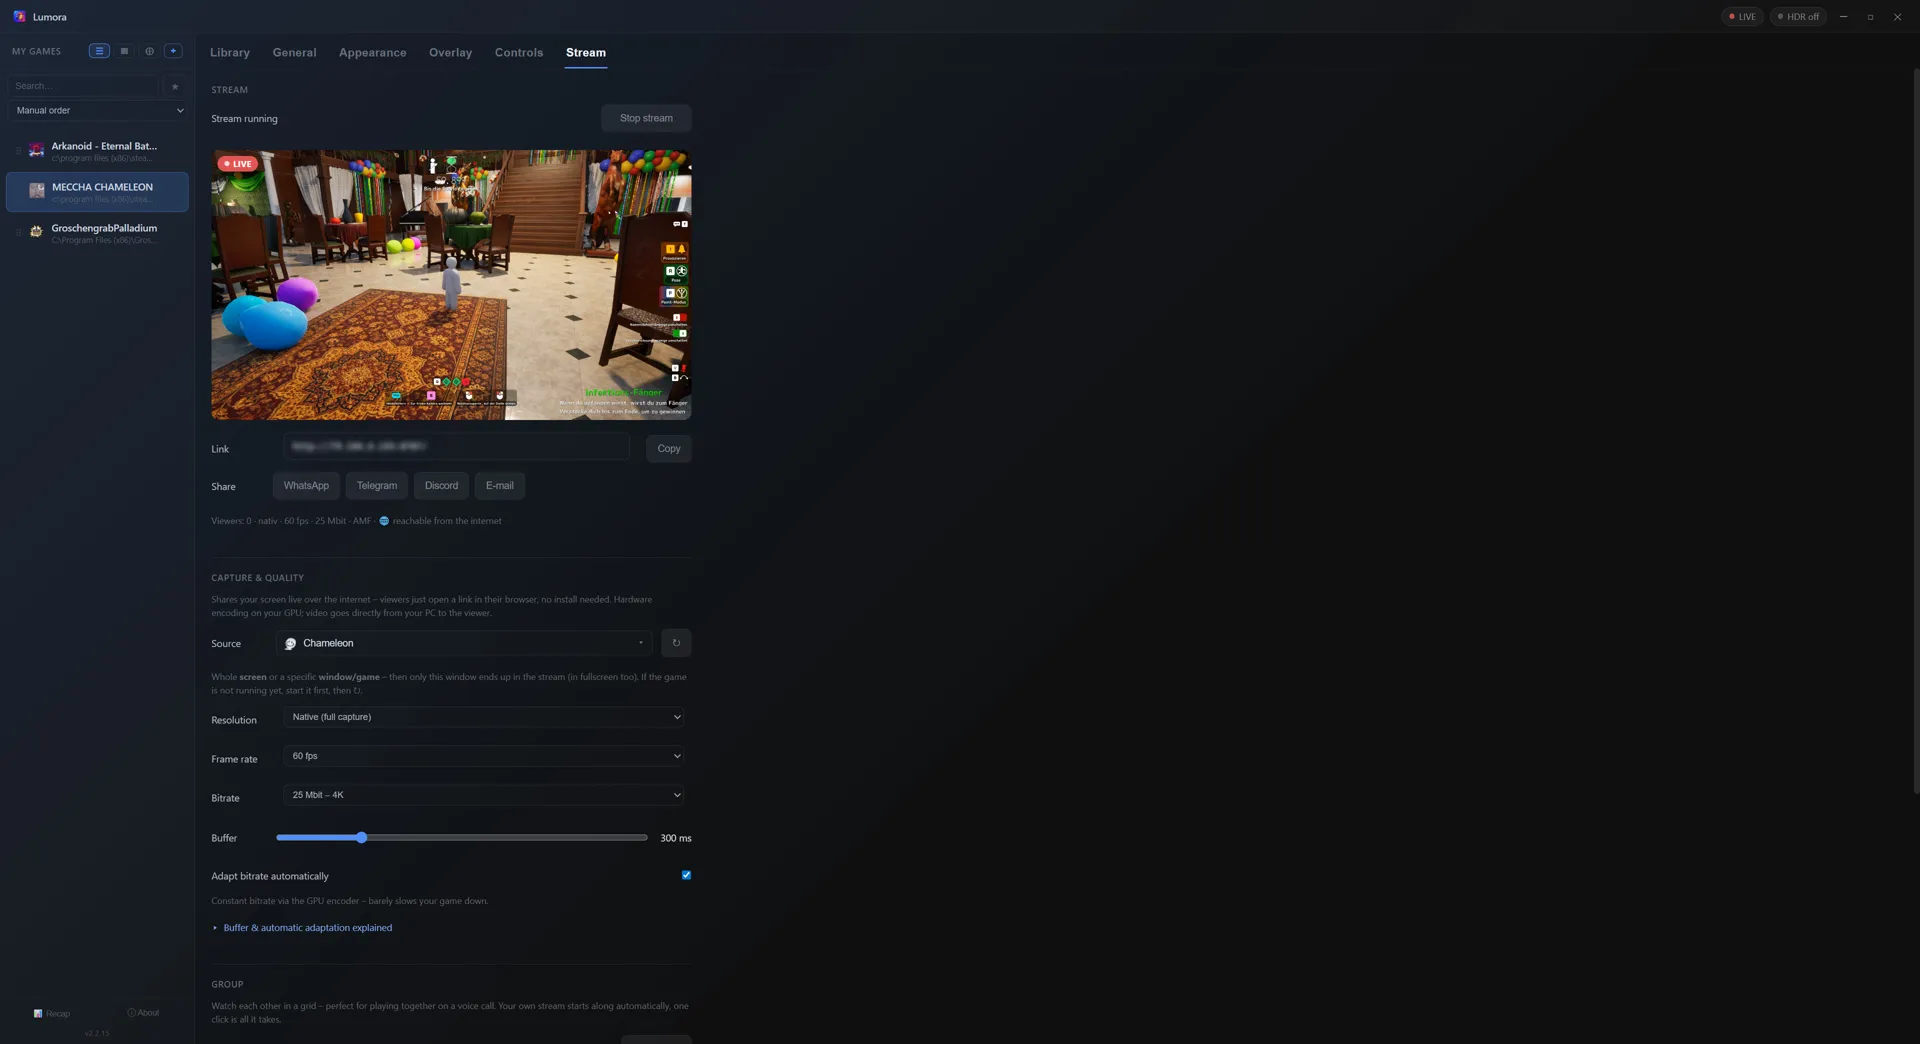
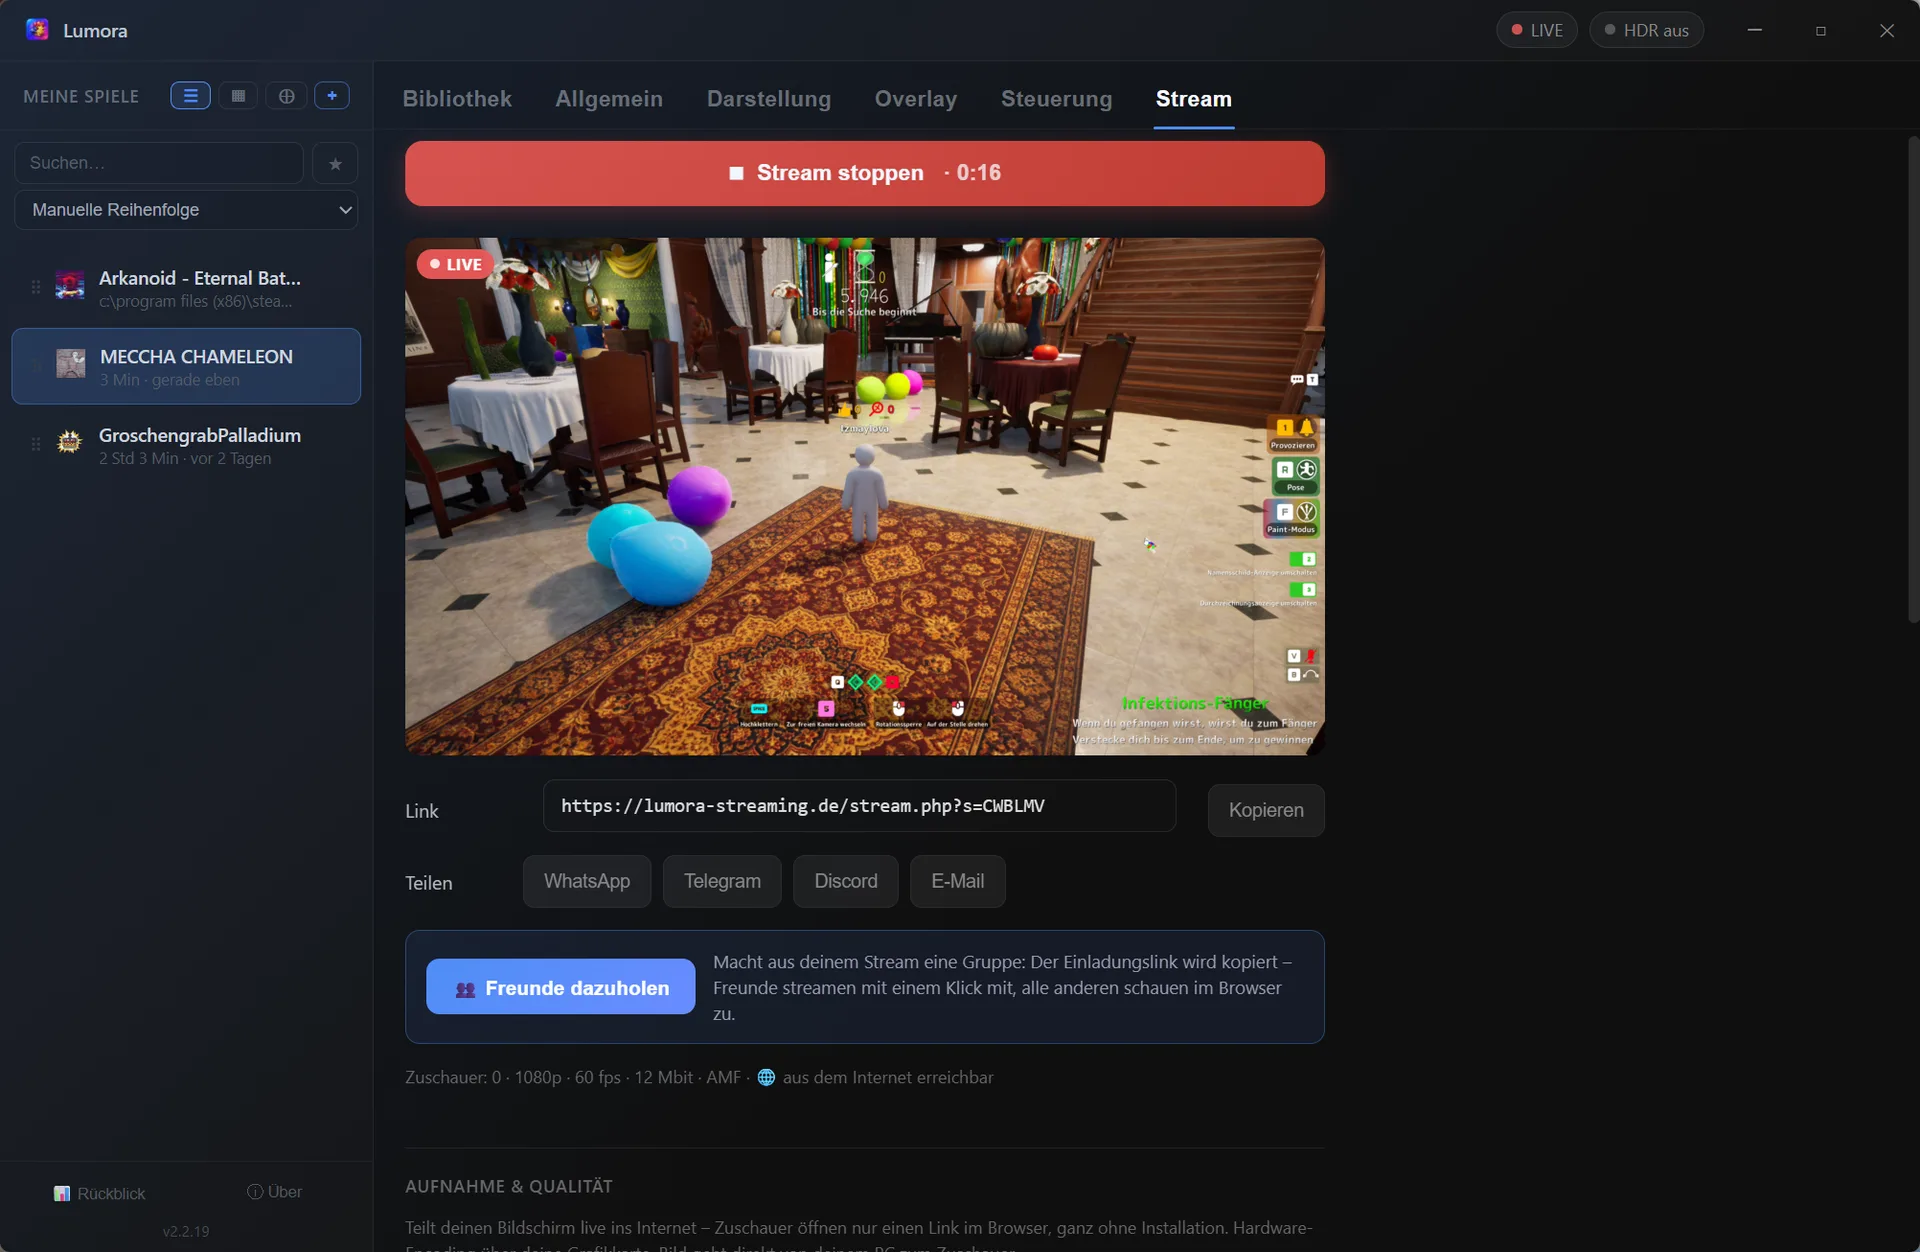
Website: aktueller Stream-Tab-Screenshot + neue Abschluss-Statistik
- stream.webp/stream.jpg durch aktuellen Stream-Tab-Screenshot ersetzt
  (zeigt jetzt stream.php-Link, "Freunde dazuholen", Laufzeit-Timer);
  erscheint automatisch im Streaming-Tab der Startseite + auf
  streaming.html. width/height-Attribute + alt-Texte angepasst (DE+EN).
- Neuer Abschnitt "Nach dem Stream: deine Zahlen" auf streaming.html
  (DE+EN) mit Screenshot der Abschluss-Statistik (stream-stats.webp).
- Bilder mit ffmpeg/libwebp auf 1920 Breite zu WebP konvertiert.

diff --git a/website/en/streaming.html b/website/en/streaming.html
@@ -259,7 +259,7 @@
     <a class="cta" href="../download.php">⬇ Download Lumora for free</a>
     <p class="muted">For Windows 10 &amp; 11 · no registration · open source</p>
 
-    <img class="shot" src="../stream.webp" width="1920" height="1044" decoding="async" alt="Lumora stream tab: live preview, viewer list and bitrate settings while sharing your screen">
+    <img class="shot" src="../stream.webp" width="1920" height="1252" decoding="async" alt="Lumora stream tab: live game preview, share link and “Invite friends” while sharing your screen">
 
     <h2>How it works</h2>
     <ol class="steps">
@@ -279,6 +279,10 @@
         <li><strong>No router fiddling:</strong> automatic port setup (UPnP), IPv6 direct path for DS-Lite/CGNAT connections, optional custom TURN server – all built in.</li>
       </ul>
     </div>
+
+    <h2>After the stream: your numbers</h2>
+    <p>As soon as you end the stream, Lumora shows you a short summary: how long you were live, how many people watched, how much video data was transferred and what quality you streamed at.</p>
+    <img class="shot" src="../stream-stats.webp" width="1920" height="1254" loading="lazy" decoding="async" alt="Lumora stream summary after finishing: duration, concurrent and total viewers, video data transferred, average bitrate and quality">
 
     <h2>Groups: play together, watch each other</h2>
     <p>One click on “Invite friends” on a running stream creates the group and copies the invite link. Anyone opening it with Lumora joins instantly via “Join with Lumora” – their own stream starts along automatically, and your own PCs on the same network even detect the group by themselves. No typing codes. Anyone without a PC opens the same link in a browser (works on iPhone too) and sees all streams side by side in a grid: fullscreen or spotlight per click, audio and volume per person, the whole grid as picture-in-picture, live stats on demand. The group doesn't depend on anyone – whoever leaves, leaves; everything keeps running for everyone else.</p>

diff --git a/website/streaming.html b/website/streaming.html
@@ -258,7 +258,7 @@
     <a class="cta" href="download.php">⬇ Lumora kostenlos laden</a>
     <p class="muted">Für Windows 10 &amp; 11 · keine Registrierung · Open Source</p>
 
-    <img class="shot" src="stream.webp" width="1920" height="1044" decoding="async" alt="Lumora Stream-Tab: Live-Vorschau, Zuschauer-Liste und Bitrate-Einstellungen beim Teilen des Bildschirms">
+    <img class="shot" src="stream.webp" width="1920" height="1252" decoding="async" alt="Lumora Stream-Tab: Live-Vorschau des Spiels, Teilen-Link und „Freunde dazuholen" beim Teilen des Bildschirms">
 
     <h2>So einfach geht's</h2>
     <ol class="steps">
@@ -278,6 +278,10 @@
         <li><strong>Verbindung ohne Gefrickel:</strong> Router-Freigaben automatisch (UPnP), IPv6-Direktweg bei DS-Lite/CGNAT-Anschlüssen, optional eigener TURN-Server – alles eingebaut.</li>
       </ul>
     </div>
+
+    <h2>Nach dem Stream: deine Zahlen</h2>
+    <p>Sobald du den Stream beendest, zeigt Lumora dir eine kurze Zusammenfassung: wie lange du live warst, wie viele Leute zugeschaut haben, wie viele Videodaten übertragen wurden und mit welcher Qualität du gestreamt hast.</p>
+    <img class="shot" src="stream-stats.webp" width="1920" height="1254" loading="lazy" decoding="async" alt="Lumora Stream-Statistik nach dem Beenden: Dauer, Zuschauer gleichzeitig und gesamt, übertragene Videodaten, durchschnittliche Bitrate und Qualität">
 
     <h2>Gruppen: Zockt zusammen, schaut euch gegenseitig zu</h2>
     <p>Ein Klick auf „Freunde dazuholen" am laufenden Stream erstellt die Gruppe und kopiert den Einladungslink. Wer ihn mit Lumora öffnet, ist per „Mit Lumora mitstreamen" sofort dabei – der eigene Stream startet automatisch mit, und eigene Rechner im selben Netzwerk erkennen die Gruppe sogar ganz von selbst. Kein Code-Abtippen. Wer keinen PC hat, öffnet denselben Link im Browser (funktioniert auch auf dem iPhone) und sieht alle Streams gleichzeitig im Raster: Vollbild oder Spotlight per Klick, Ton und Lautstärke pro Person, das ganze Grid als Bild-in-Bild, Live-Statistik zuschaltbar. Die Gruppe hängt an niemandem – wer geht, geht; für alle anderen läuft alles ununterbrochen weiter.</p>

diff --git a/website/en/index.html b/website/en/index.html
@@ -1872,7 +1872,7 @@
     list:  { img: '../1.webp', alt: 'Lumora – Listenansicht', cap: 'List view – details, description &amp; per-game HDR toggle' },
     cover: { img: '../2.webp', alt: 'Lumora – Cover view', cap: 'Cover view – your library as a grid of game covers' },
     osd:   { img: '../3.webp', alt: 'Lumora – Gaming OSD with GPU, CPU and FPS values', cap: 'Gaming OSD – GPU, CPU &amp; FPS live over the game, here over the library (real values)' },
-    streaming: { img: '../stream.webp', alt: 'Lumora – Stream tab with live preview, viewer list and bitrate settings', cap: 'Stream tab – live preview, viewers at a glance, bitrate &amp; quality adjustable' }
+    streaming: { img: '../stream.webp', alt: 'Lumora – Stream tab with live preview, share link and “Invite friends”', cap: 'Stream tab – live preview, share link &amp; “Invite friends”' }
   };
   function setView(v) {
     const d = VIEWS[v];
@@ -1892,7 +1892,7 @@
     { img: '../1.webp', alt: 'Lumora – List view', cap: 'List view' },
     { img: '../2.webp', alt: 'Lumora – Cover view',  cap: 'Cover view' },
     { img: '../3.webp', alt: 'Lumora – Gaming OSD',     cap: 'Gaming OSD (live values)' },
-    { img: '../stream.webp', alt: 'Lumora – Stream tab', cap: 'Stream tab (live preview &amp; bitrate)' }
+    { img: '../stream.webp', alt: 'Lumora – Stream tab', cap: 'Stream tab (live preview &amp; share link)' }
   ];
   let lightboxIndex = 0;
   function lightboxSet(i) {

diff --git a/website/index.html b/website/index.html
@@ -1886,7 +1886,7 @@
     list:  { img: '1.webp', alt: 'Lumora – Listenansicht', cap: 'Listenansicht – Details, Beschreibung &amp; HDR-Schalter pro Spiel' },
     cover: { img: '2.webp', alt: 'Lumora – Cover-Ansicht', cap: 'Cover-Ansicht – deine Bibliothek als Raster aus Spiel-Covern' },
     osd:   { img: '3.webp', alt: 'Lumora – Gaming-OSD mit GPU-, CPU- und FPS-Werten', cap: 'Gaming-OSD – GPU, CPU &amp; FPS live über dem Spiel, hier über der Bibliothek (echte Werte)' },
-    streaming: { img: 'stream.webp', alt: 'Lumora – Stream-Tab mit Live-Vorschau, Zuschauer-Liste und Bitrate-Einstellungen', cap: 'Stream-Tab – Live-Vorschau, Zuschauer im Blick, Bitrate &amp; Qualität einstellbar' }
+    streaming: { img: 'stream.webp', alt: 'Lumora – Stream-Tab mit Live-Vorschau, Teilen-Link und „Freunde dazuholen"', cap: 'Stream-Tab – Live-Vorschau, Link teilen &amp; „Freunde dazuholen"' }
   };
   function setView(v) {
     const d = VIEWS[v];
@@ -1906,7 +1906,7 @@
     { img: '1.webp', alt: 'Lumora – Listenansicht', cap: 'Listenansicht' },
     { img: '2.webp', alt: 'Lumora – Cover-Ansicht',  cap: 'Cover-Ansicht' },
     { img: '3.webp', alt: 'Lumora – Gaming-OSD',     cap: 'Gaming-OSD (Live-Werte)' },
-    { img: 'stream.webp', alt: 'Lumora – Stream-Tab', cap: 'Stream-Tab (Live-Vorschau &amp; Bitrate)' }
+    { img: 'stream.webp', alt: 'Lumora – Stream-Tab', cap: 'Stream-Tab (Live-Vorschau &amp; Teilen-Link)' }
   ];
   let lightboxIndex = 0;
   function lightboxSet(i) {